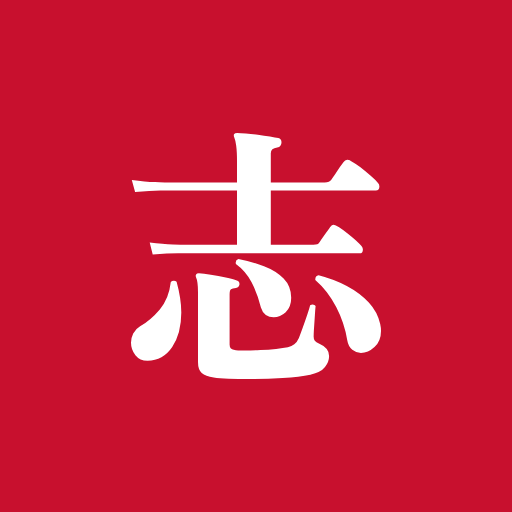
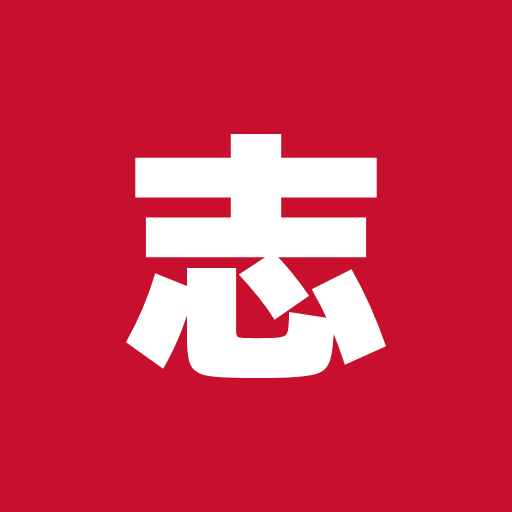
Tone down branding: no confetti, no touristy styling
- Personal best now shows a quiet toast at the top instead of a
  confetti overlay with a spinning trophy and English text
- Logo 志 redrawn from M PLUS 1 Black (modern gothic) instead of an
  antique mincho glyph; app icons regenerated
- Remove the romanized KOKOROZASHI wordmark and the kanji watermark
  on the analysis card; share image uses Japanese text
- Bump service worker cache

Claude-Session: https://claude.ai/code/session_01JUN4JELLD1vb7sSVmshsMy

Changed region(s): [[0.25, 0.25, 0.75, 0.75], [0.7188, 0.5938, 0.75, 0.6875], [0.5, 0.5938, 0.5312, 0.625]]

diff --git a/style.css b/style.css
@@ -294,9 +294,6 @@ button.ghost { background: transparent; border-color: transparent; }
   color: #fff; border: none;
 }
 .hero > * { position: relative; }
-.hero-mark { position: absolute !important; right: -18px; bottom: -34px; width: 150px; height: 150px; opacity: 0.14; }
-.hero-mark .logo-bg { fill: none; }
-.hero-mark .logo-fg { fill: #fff; }
 .hero h2 { color: #fff; opacity: 0.9; font-size: 14px; margin-bottom: 4px; }
 .hero .headline { font-size: 21px; font-weight: 800; margin: 0 0 6px; line-height: 1.35; }
 .hero p { margin: 0; opacity: 0.92; font-size: 14px; }
@@ -493,8 +490,8 @@ label.check input { width: 22px; min-height: 22px; height: 22px; margin: 0; acce
 .logo-mark { width: 34px; height: 34px; flex: none; display: block; }
 .logo-mark .logo-bg { fill: var(--brand); }
 .logo-mark .logo-fg { fill: #fff; }
-.logo-mark.big { width: 72px; height: 72px; filter: drop-shadow(0 8px 18px rgba(200, 16, 46, 0.35)); }
-.brand-word { font-family: var(--font-num); font-weight: 600; font-size: 15px; letter-spacing: 0.32em; color: var(--text); }
+.logo-mark.big { width: 64px; height: 64px; }
+.brand-text { font-weight: 800; font-size: 15px; color: var(--text); }
 .ob-brand { display: flex; justify-content: center; margin: 4px 0 10px; }
 #ob-title { text-align: center; font-size: 24px; font-weight: 900; }
 .side-brand { align-items: center; gap: 10px; }
@@ -542,47 +539,27 @@ button.primary.flash { animation: press-flash 0.5s ease-out; }
 @keyframes bump { 0%, 100% { transform: none; } 40% { transform: scale(1.25); } }
 .count.bump { display: inline-block; animation: bump 0.4s ease-out; color: var(--accent); }
 
-/* 自己ベスト更新のお祝い */
+/* 自己ベスト更新の知らせ：画面上部に控えめに出す */
 .celebrate {
-  position: fixed; inset: 0; z-index: 20;
-  display: flex; align-items: center; justify-content: center;
-  background: rgba(10, 10, 12, 0.55); backdrop-filter: blur(3px); -webkit-backdrop-filter: blur(3px);
-  animation: fade 0.2s ease-out;
+  position: fixed; z-index: 20; left: 50%; top: calc(12px + env(safe-area-inset-top));
+  transform: translateX(-50%);
+  width: min(440px, calc(100% - 24px));
+  display: flex; align-items: center; gap: 12px;
+  padding: 12px 16px; border-radius: 16px;
+  background: var(--ink); color: #fff;
+  box-shadow: 0 10px 30px rgba(0, 0, 0, 0.25);
+  border-left: 4px solid var(--brand);
+  animation: toast-in 0.25s ease-out;
+  cursor: pointer;
 }
-.celebrate-card {
-  position: relative; z-index: 1;
-  width: min(340px, calc(100% - 48px)); text-align: center;
-  background: var(--card); color: var(--text); border-radius: 26px; padding: 28px 22px 22px;
-  box-shadow: 0 20px 60px rgba(0, 0, 0, 0.35);
-  animation: card-in 0.5s cubic-bezier(0.2, 1.4, 0.4, 1);
-}
-@keyframes card-in { from { opacity: 0; transform: scale(0.6) translateY(20px); } to { opacity: 1; transform: none; } }
-.celebrate-badge {
-  width: 84px; height: 84px; margin: -70px auto 10px; border-radius: 50%;
-  display: grid; place-items: center; color: #fff;
-  background: radial-gradient(circle at 30% 30%, #FF4D5E, var(--brand) 55%, var(--brand-deep));
-  box-shadow: 0 10px 30px rgba(200, 16, 46, 0.5), inset 0 0 0 4px rgba(255, 255, 255, 0.25);
-  animation: badge-spin 0.9s cubic-bezier(0.2, 1.2, 0.4, 1);
-}
-.celebrate-badge .icon { width: 42px; height: 42px; stroke-width: 1.8; }
-@keyframes badge-spin { from { transform: rotate(-200deg) scale(0.2); } to { transform: none; } }
-.celebrate-kicker { font-family: var(--font-num); letter-spacing: 0.3em; font-size: 12px; color: var(--accent); font-weight: 600; }
-.celebrate-title { font-size: 24px; font-weight: 900; margin: 4px 0 6px; }
-.celebrate-value { font-family: var(--font-num); font-size: 44px; font-weight: 600; line-height: 1.1; }
-.celebrate-value small { font-size: 18px; color: var(--muted); }
-.celebrate-diff { display: inline-block; margin-top: 6px; padding: 3px 12px; border-radius: 999px; background: var(--accent-soft); color: var(--accent); font-weight: 800; font-size: 14px; }
-.celebrate-sub { color: var(--muted); font-size: 13px; margin: 12px 0 0; }
-.confetti { position: absolute; inset: 0; overflow: hidden; pointer-events: none; }
-.confetti i {
-  position: absolute; top: -12px; width: 8px; height: 14px; border-radius: 2px; opacity: 0;
-  animation: confetti-fall var(--d, 1.8s) cubic-bezier(0.25, 0.6, 0.4, 1) var(--delay, 0s) forwards;
-}
-@keyframes confetti-fall {
-  0% { opacity: 1; transform: translate3d(0, 0, 0) rotate(0); }
-  100% { opacity: 0; transform: translate3d(var(--x, 0), 105vh, 0) rotate(var(--r, 540deg)); }
-}
+@media (prefers-color-scheme: dark) { .celebrate { background: var(--card-2); border: 1px solid var(--border); border-left: 4px solid var(--accent); } }
+@keyframes toast-in { from { opacity: 0; transform: translate(-50%, -8px); } to { opacity: 1; transform: translate(-50%, 0); } }
+.pb-icon { flex: none; width: 36px; height: 36px; border-radius: 10px; display: grid; place-items: center; background: var(--brand); }
+.pb-icon .icon { width: 20px; height: 20px; color: #fff; }
+.pb-text { display: grid; gap: 1px; min-width: 0; }
+.pb-text strong { font-size: 15px; font-weight: 800; }
+.pb-text span { font-size: 13px; opacity: 0.8; overflow: hidden; text-overflow: ellipsis; white-space: nowrap; }
 
 @media (prefers-reduced-motion: reduce) {
-  .sets li.just-added, button.primary.flash, .count.bump, .celebrate, .celebrate-card, .celebrate-badge { animation: none; }
-  .confetti { display: none; }
+  .sets li.just-added, button.primary.flash, .count.bump, .celebrate { animation: none; }
 }

diff --git a/js/icons.js b/js/icons.js
@@ -24,8 +24,8 @@ export const ICONS = {
   'info': '<circle cx="12" cy="12" r="10"/><path d="M12 16v-4"/><path d="M12 8h.01"/>',
 };
 
-// 志のロゴ（Zen Antique の「志」をもとにした図形。SIL Open Font License）
-export const LOGO_PATH = 'M132 254.4 128.4 239.8Q144.6 241.8 156.3 242.2Q168 242.5 168 242.5H233.3V177.5H146.5Q146.5 177.5 141.3 177.5Q136 177.5 127.8 177.9Q119.5 178.2 110.9 179.2L107 164.7Q123.1 167 134.8 167.3Q146.5 167.6 146.5 167.6H233.3V142.6Q233.3 130.7 232.3 123.8Q231.3 116.9 230 113.9Q229 111.9 229.6 110Q230.6 108.3 233.6 108.3Q237.2 108.3 243.8 109Q250.4 109.6 258.1 110.6Q265.9 111.6 272.6 112.8Q279.4 113.9 282.7 114.6Q286.7 115.6 286.7 119.5Q286.7 125.1 281.4 125.8Q273.8 126.8 273.8 132.7V167.6H338.4Q344.4 167.6 346.7 164Q348.3 161.7 351.1 157.6Q353.9 153.5 356.7 149.4Q359.5 145.2 360.8 143.6Q362.8 140.6 365.5 140.6Q366.4 140.6 367.4 140.9Q368.4 141.3 369.7 141.9Q374.4 144.2 380.9 149.4Q387.5 154.5 393.6 159.7Q399.7 165 402.4 168.3Q404 170 404 172.6Q404 177.5 399.7 177.5H273.8V242.5H324.9Q327.9 242.5 329.5 242Q331.2 241.5 332.5 239.2Q333.8 237.2 336.3 233.6Q338.7 230 341.4 226.3Q344 222.7 345 221.1Q347 218.4 349.3 218.4Q351.3 218.4 355.7 221.4Q360.2 224.4 365.6 228.6Q371.1 232.9 375.7 237.2Q380.3 241.5 382.6 244.1Q384.2 246.4 384.2 248.1Q384.2 252.7 380.3 252.7H168Q168 252.7 162.5 252.7Q157.1 252.7 148.9 253Q140.6 253.4 132 254.4ZM205.2 401.7Q195.3 400.1 190.9 396.3Q186.4 392.5 186.4 383.3V299.8Q186.4 286.3 184.1 281.7Q183.1 279.7 184.1 278.1Q184.8 276.8 187.4 276.8Q192.7 277.1 201.8 278.6Q210.8 280.1 219.7 281.9Q228.6 283.7 232.9 285.3Q236.2 286 236.2 290Q235.9 293.6 231.9 294.2Q227.6 294.6 226 295.9Q224.4 297.2 224.4 302.2V362.2Q224.4 365.5 225.8 366.9Q227.3 368.4 231.9 369.1Q234.6 369.4 237.4 369.4Q240.2 369.4 243.1 369.4Q251.7 369.4 261.4 368.9Q271.2 368.4 280.1 367.4Q289 366.4 294.2 365.5Q298.9 364.5 302 362Q305.1 359.5 307.4 354.2Q309.1 350.3 312 342Q315 333.8 317.6 325.9Q320.3 318 320.9 315Q322.6 314 323.9 314Q326.5 314 327.5 316Q327.2 319.3 326.7 326.7Q326.2 334.1 325.7 341.2Q325.2 348.3 325.2 350.9Q324.9 355.6 326.5 357.7Q328.2 359.8 331.5 361.2Q343.7 366.4 343.7 376Q343.7 382.9 338.7 389.4Q333.8 395.8 321.3 398.4Q308.4 401.1 288 402.4Q267.5 403.7 247.8 403.7Q234.6 403.7 223.2 403.2Q211.8 402.7 205.2 401.7ZM381.9 372.4Q376.3 372.4 371.5 368.6Q366.8 364.8 365.5 356.9Q362.2 336.4 352.3 317.2Q342.4 297.9 327.2 284.7V284Q327.2 279.7 331.2 279.1Q349.3 283.7 365 291.9Q380.6 300.2 391.3 311.7Q402 323.3 405 337.8Q406 342 406 346Q406 358.2 398.3 365.3Q390.5 372.4 381.9 372.4ZM125.8 381.6Q116.5 381.6 111.3 375Q106 368.4 106 360.2Q106 354.2 108.6 349Q111.3 343.7 116.9 340.4Q129.7 332.8 140.6 320.1Q151.5 307.4 153.8 287.3Q155.1 285.7 157.4 285.7Q159.4 285.7 160.7 287Q166.3 307.4 166.3 323.9Q166.3 349 155.5 365.3Q144.6 381.6 125.8 381.6ZM277.1 329.5Q271.8 329.5 267.7 326.7Q263.6 323.9 261.9 318Q258 301.5 250.9 287.8Q243.8 274.1 231.9 265.6Q231.6 264.9 231.6 263.9Q231.6 260.6 234.9 259.6Q251.1 262.6 265.6 268.2Q280.1 273.8 289.1 283Q298.2 292.3 298.2 306.1Q298.2 317.3 291.6 323.4Q285 329.5 277.1 329.5Z';
+// 志のロゴ（M PLUS 1 Black の「志」をもとにした図形。SIL Open Font License）
+export const LOGO_PATH = 'M124.7 257.6V210.1H225.9V186.4H112.1V139H225.9V110.5H286.1V139H399.9V186.4H286.1V210.1H387.3V257.6ZM145.3 390.4 101 358.8Q112.1 339.2 120.9 318.3Q129.8 297.4 135.8 276.6L183.2 295.5Q177.2 319.6 167.4 344.4Q157.6 369.2 145.3 390.4ZM262.3 401.5Q251.6 401.5 240.2 401.4Q228.8 401.2 221.2 400.9Q206 400.2 196.5 398.3Q187 396.4 182.1 391.7Q177.2 387 175.5 377.6Q173.8 368.3 173.8 353.1V270.2H232.3V344.3Q232.3 348.1 232.8 349.9Q233.2 351.8 234.5 352.5Q235.8 353.1 238.6 353.4Q241.1 353.7 246.8 353.9Q252.5 354.1 259.2 354.1Q263.6 354.1 269.8 353.9Q275.9 353.7 279.7 353.4Q285.1 352.8 288.3 352Q291.4 351.2 292.9 348.5Q294.3 345.8 294.8 339.7Q295.2 333.5 295.5 322.7L349.3 331.3Q348.7 354.4 346.9 367.8Q345.2 381.3 340.8 387.8Q336.3 394.2 327.5 396.6Q318.6 399 303.4 400.2Q295.9 400.9 286.1 401.2Q276.2 401.5 262.3 401.5ZM278.1 331.9Q269.3 318 258.4 304.4Q247.5 290.8 235.4 278.1L276.6 251.3Q288.6 263.3 299.5 276.7Q310.4 290.2 319.3 303.4ZM362 385.7Q354.1 360.7 344.3 338.6Q334.4 316.4 322.4 295.5L369.9 271.8Q381.9 293 392 315.8Q402.1 338.6 411 363.6Z';
 
 const NS = 'http://www.w3.org/2000/svg';
 

diff --git a/js/app.js b/js/app.js
@@ -4,7 +4,7 @@ import {
   stagnation, intensityCheck, nextSuggestion, weightAdvice, proteinTarget, cycleDay,
   e1rm,
 } from './science.js';
-import { icon, logoMark, hydrateIcons, LOGO_PATH } from './icons.js';
+import { icon, hydrateIcons, LOGO_PATH } from './icons.js';
 import { illustration } from './illustrations.js';
 
 const STORAGE_KEY = 'kintore-v1';
@@ -306,30 +306,23 @@ function animateAddedSet(name) {
   btn.classList.add('flash');
 }
 
-// 自己ベスト更新のお祝い
+// 自己ベスト更新の知らせ（画面上部に控えめに出す）
 let celebrateTimer = null;
 function celebrate(name, value, diff) {
   const box = $('#celebrate');
-  const colors = ['#C8102E', '#EF3340', '#111114', '#ffffff', '#F5B700'];
-  const confetti = el('div', { class: 'confetti', 'aria-hidden': 'true' },
-    ...Array.from({ length: 42 }, (_, i) => el('i', {
-      style: `left:${Math.random() * 100}%;background:${colors[i % colors.length]};--x:${(Math.random() - 0.5) * 160}px;--r:${360 + Math.random() * 540}deg;--delay:${Math.random() * 0.35}s;--d:${1.5 + Math.random() * 1.1}s;${i % 3 === 0 ? 'width:6px;height:6px;border-radius:50%;' : ''}`,
-    })),
+  const close = () => { box.classList.add('hidden'); clearTimeout(celebrateTimer); };
+  box.replaceChildren(
+    el('span', { class: 'pb-icon' }, icon('trophy')),
+    el('div', { class: 'pb-text' },
+      el('strong', {}, '自己ベスト更新'),
+      el('span', {}, `${name}　推定1RM ${value}kg（+${diff}kg）`),
+    ),
   );
-  const close = () => { box.classList.add('hidden'); box.replaceChildren(); clearTimeout(celebrateTimer); };
-  box.replaceChildren(confetti, el('div', { class: 'celebrate-card' },
-    el('div', { class: 'celebrate-badge' }, icon('trophy')),
-    el('div', { class: 'celebrate-kicker' }, 'NEW PERSONAL BEST'),
-    el('div', { class: 'celebrate-title' }, '自己ベスト更新！'),
-    el('div', { class: 'celebrate-value' }, `${value}`, el('small', {}, ' kg')),
-    el('div', { class: 'celebrate-diff' }, `${name}・推定1RM +${diff}kg`),
-    el('p', { class: 'celebrate-sub' }, 'タップで閉じる'),
-  ));
   box.classList.remove('hidden');
   box.onclick = close;
-  if (navigator.vibrate) navigator.vibrate([60, 40, 60, 40, 160]);
+  if (navigator.vibrate) navigator.vibrate(80);
   clearTimeout(celebrateTimer);
-  celebrateTimer = setTimeout(close, 3600);
+  celebrateTimer = setTimeout(close, 4000);
 }
 
 function deleteSet(date, index) {
@@ -463,7 +456,6 @@ renderers.analysis = function renderAnalysis() {
     sub = 'この調子で、重さか回数を少しずつ増やしていきましょう。';
   }
   cards.push(el('div', { class: 'card hero' },
-    logoMark('logo-mark hero-mark'),
     el('h2', {}, `今週の分析・${GOALS[p.goal].short}`),
     el('p', { class: 'headline' }, headline),
     el('p', {}, sub),
@@ -683,7 +675,8 @@ $('#share-week').addEventListener('click', async () => {
   g.fillStyle = '#C8102E'; g.beginPath(); g.roundRect(0, 0, 512, 512, 112); g.fill();
   g.fillStyle = '#ffffff'; g.fill(new Path2D(LOGO_PATH));
   g.restore();
-  g.font = `600 30px Oswald, sans-serif`; g.fillStyle = '#F4F4F5'; g.fillText('K O K O R O Z A S H I', 196, 1270);
+  g.font = font(34, 800); g.fillStyle = '#F4F4F5'; g.fillText('志', 196, 1252);
+  g.font = font(24, 500); g.fillStyle = '#9A9AA6'; g.fillText('科学で鍛える筋トレ記録', 196, 1290);
 
   const blob = await new Promise((r) => c.toBlob(r, 'image/png'));
   const file = new File([blob], `kintore-${end}.png`, { type: 'image/png' });

diff --git a/index.html b/index.html
@@ -19,7 +19,7 @@
 </head>
 <body>
   <header class="topbar">
-    <h1 class="brand"><i data-logo class="logo-mark"></i><span class="brand-word">KOKOROZASHI</span><span class="sr-only">志</span></h1>
+    <h1 class="brand"><i data-logo class="logo-mark"></i><span class="sr-only">志</span></h1>
     <span id="page-title" class="page-title">記録</span>
     <span id="goal-badge" class="badge"></span>
   </header>
@@ -312,7 +312,7 @@
   <div id="celebrate" class="celebrate hidden" role="status" aria-live="polite"></div>
 
   <nav class="tabbar" aria-label="メニュー">
-    <div class="side-brand" aria-hidden="true"><i data-logo class="logo-mark"></i><span class="brand-word">KOKOROZASHI</span></div>
+    <div class="side-brand" aria-hidden="true"><i data-logo class="logo-mark"></i><span class="brand-text">筋トレ記録</span></div>
     <button data-tab="log" class="on"><i data-icon="dumbbell" class="icon"></i><span>記録</span></button>
     <button data-tab="analysis"><i data-icon="chart-column" class="icon"></i><span>分析</span></button>
     <button data-tab="progress"><i data-icon="trending-up" class="icon"></i><span>進捗</span></button>

diff --git a/sw.js b/sw.js
@@ -1,6 +1,6 @@
 // オフライン対応：通信できるときは最新を取得してキャッシュを更新し、
 // 通信できないときはキャッシュから返す
-const CACHE = 'kokorozashi-v5';
+const CACHE = 'kokorozashi-v6';
 const ASSETS = [
   './', 'index.html', 'style.css', 'js/app.js', 'js/science.js',
   'photo.html', 'photo.css', 'photo.js', 'manifest.webmanifest',

diff --git a/README.md b/README.md
@@ -1,4 +1,4 @@
-# 志（KOKOROZASHI）
+# 志
 
 科学で鍛える筋トレ記録アプリ。
 
@@ -43,7 +43,7 @@ python3 -m http.server 8000
 
 ## ブランド
 
-- ロゴ：漢字「志」（Zen Antique の字形をもとにした図形。SIL Open Font License）
+- ロゴ：漢字「志」（M PLUS 1 Black の字形をもとにした図形。SIL Open Font License）
 - ブランドカラー：志レッド `#C8102E`（ダークモードでは `#EF3340`）
 - フォント：M PLUS 1（本文・見出し）、Oswald（数字）。Google Fonts から読み込み
 - アイコン：[Lucide](https://lucide.dev)（ISC License）
